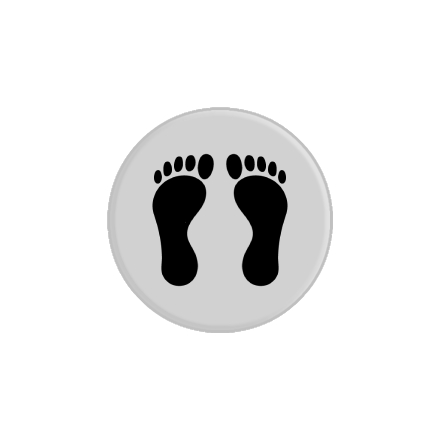
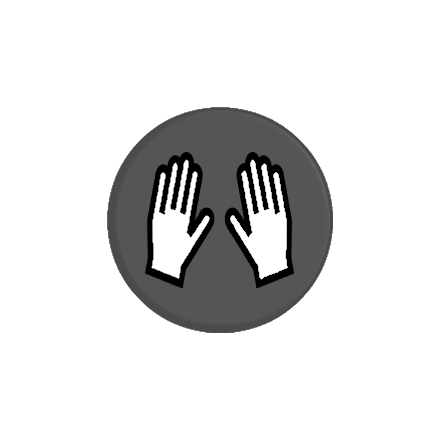
プレイヤーの速度調整　手と足アイコンのpngの名前訂正（逆になってました）

Changed region(s): [[0.2364, 0.2364, 0.7682, 0.7682]]

diff --git a/Player.cpp b/Player.cpp
@@ -7,7 +7,7 @@
 #include "Effect.h"
 
 // 静的定数.
-const float Player::ACCEL				=11.0f;		// 通常の加速.
+const float Player::ACCEL				=15.0f;		// 通常の加速.
 
 //
 int Player::m_sHandle;
@@ -163,12 +163,12 @@ void Player::Update(float _deltaTime)
 		}
 
 		//練習と本番でモーションのスピードを調整する
-		if (m_moveFlag == true)
+		if (m_moveFlag == true)//本番
 		{
-			m_motionSpeed = 0.4f;
+			m_motionSpeed = 0.5f;
 
 		}
-		else if (m_moveFlag == false)
+		else if (m_moveFlag == false)//練習
 		{
 			m_motionSpeed = 0.3f;
 		}
